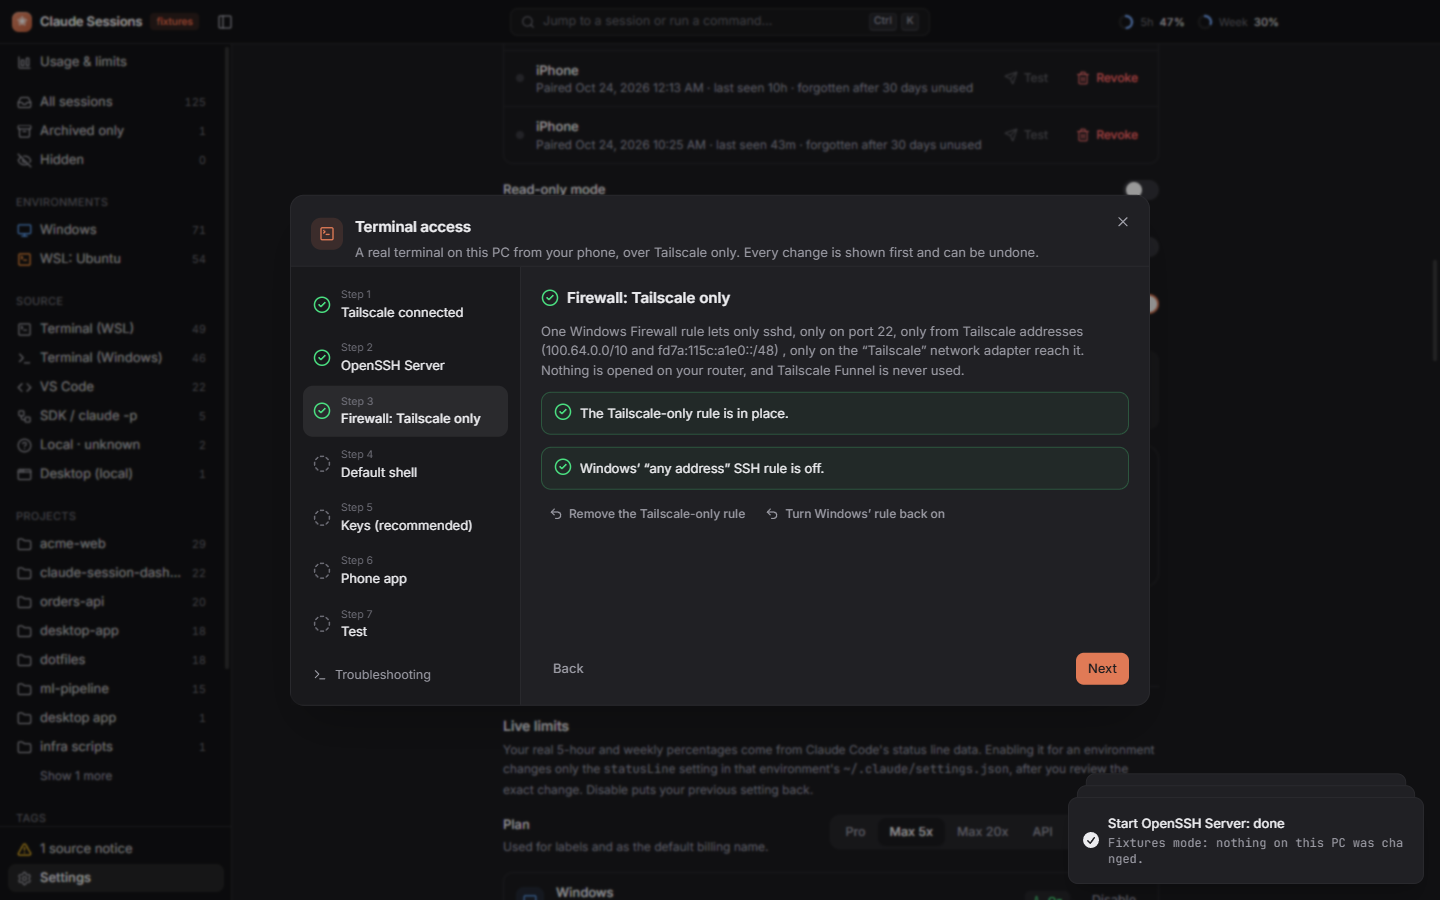
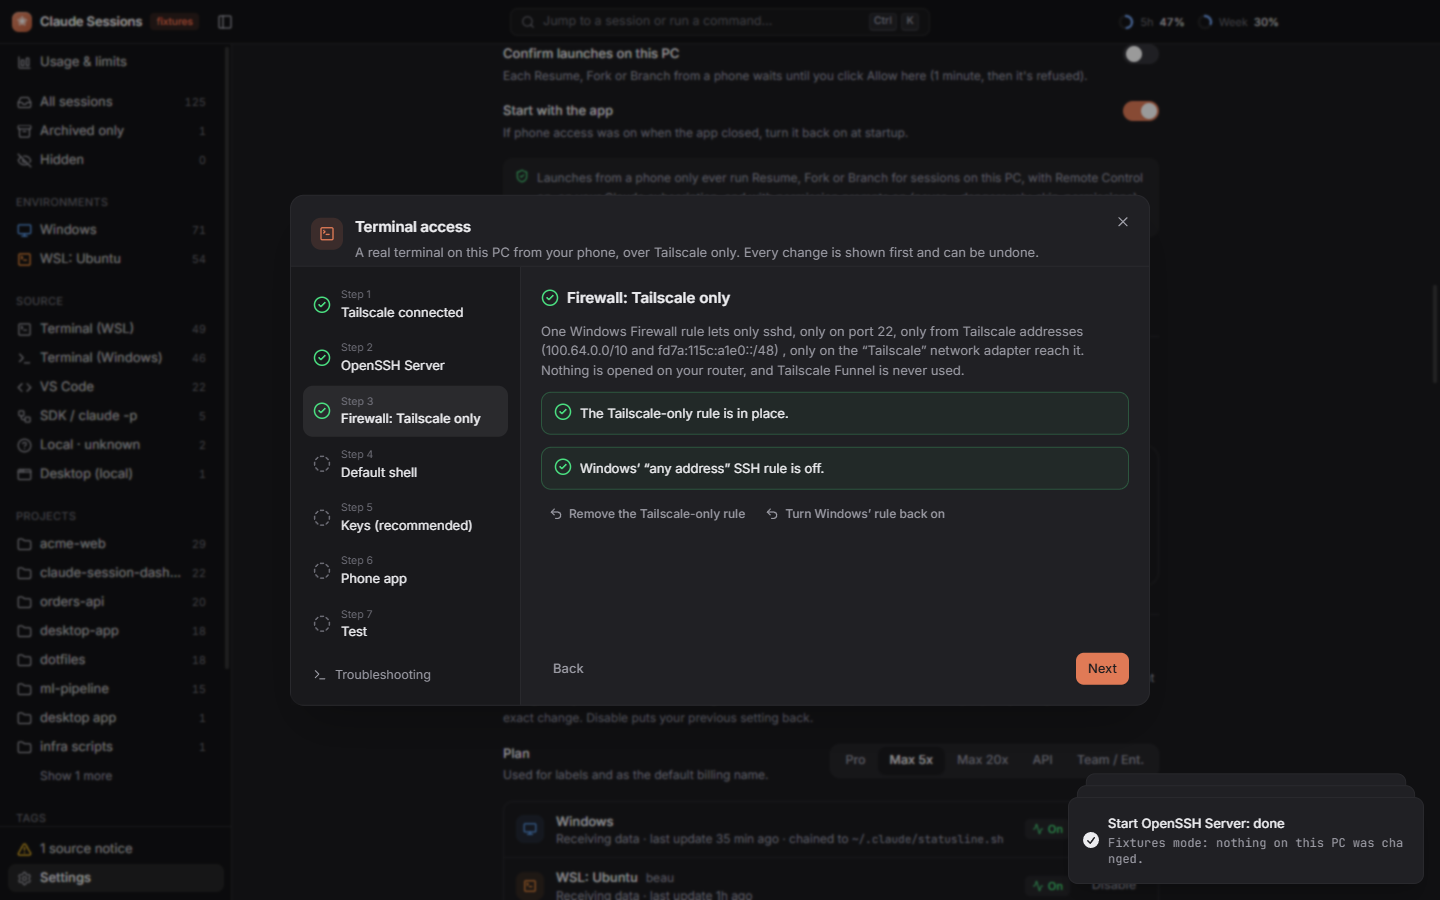
Give Terminal access (SSH) its own Settings section after Phone
It sat halfway down the Phone section with no heading, easy to miss.
References updated to Settings → Terminal access (SSH); screenshots
regenerated.

diff --git a/src/renderer/src/components/SettingsView.tsx b/src/renderer/src/components/SettingsView.tsx
@@ -33,6 +33,7 @@ import { LiveLimitsSettings } from './settings/LiveLimitsSettings'
 import { UsageSettings } from './settings/UsageSettings'
 import { HealthSettings } from './settings/HealthSettings'
 import { MobileSettingsSection } from './settings/MobileSettings'
+import { TerminalAccessBlock } from './settings/TerminalAccessSettings'
 
 export function Section({
   title,
@@ -253,6 +254,13 @@ export function SettingsView() {
         </Section>
 
         <MobileSettingsSection />
+
+        <Section
+          title="Terminal access (SSH)"
+          description="A real terminal on this PC from your phone, through Windows’ own OpenSSH Server, over Tailscale only. Every change is shown first and can be undone."
+        >
+          <TerminalAccessBlock />
+        </Section>
 
         <LiveLimitsSettings update={update} />
 

diff --git a/src/main/terminal/service.ts b/src/main/terminal/service.ts
@@ -1,4 +1,4 @@
-// Terminal access (Settings → Phone → Terminal access): set up Windows'
+// Terminal access (Settings → Terminal access (SSH)): set up Windows'
 // OpenSSH Server so a phone can open a real terminal on this PC over
 // Tailscale, and undo it again.
 //
@@ -799,7 +799,7 @@ export class TerminalService extends EventEmitter<{ changed: [] }> {
       return {
         ok: false,
         error:
-          'Your PC isn’t waiting for a key. On the PC, open Settings → Phone → Terminal access → Keys and click “Get key from phone”.'
+          'Your PC isn’t waiting for a key. On the PC, open Settings → Terminal access (SSH) → Keys and click “Get key from phone”.'
       }
     const k = parsePublicKey(text)
     if (!k.ok) return { ok: false, error: k.error }

diff --git a/src/renderer/src/components/settings/MobileSettings.tsx b/src/renderer/src/components/settings/MobileSettings.tsx
@@ -32,7 +32,6 @@ import { Input } from '../ui/input'
 import { Segmented } from '../ui/segmented'
 import { Row, Section } from '../SettingsView'
 import { MobileWizard } from './MobileWizard'
-import { TerminalAccessBlock } from './TerminalAccessSettings'
 
 function ActivityLog() {
   const [items, setItems] = useState<ActivityEntry[] | null>(null)
@@ -374,8 +373,6 @@ export function MobileSettingsSection() {
         Remote Control on, on your Claude subscription, and with permission prompts on (never
         --dangerously-skip-permissions). At most one every 10 seconds.
       </div>
-
-      <TerminalAccessBlock />
 
       <details className="group">
         <summary className="flex cursor-pointer list-none items-center gap-1.5 text-[13px] font-medium">

diff --git a/src/renderer/src/mobile/SettingsTab.tsx b/src/renderer/src/mobile/SettingsTab.tsx
@@ -309,7 +309,7 @@ function SendKeyCard({ readOnly }: { readOnly: boolean }) {
   return (
     <Card
       title="Send SSH key to PC"
-      note="For terminal access. On the PC, open Settings → Phone → Terminal access → Keys and click “Get key from phone” first. Only the public key: it’s safe to share."
+      note="For terminal access. On the PC, open Settings → Terminal access (SSH) → Keys and click “Get key from phone” first. Only the public key: it’s safe to share."
     >
       <div className="space-y-2.5 px-4 py-3">
         {sent !== null ? (

diff --git a/src/renderer/src/components/settings/terminal-change.tsx b/src/renderer/src/components/settings/terminal-change.tsx
@@ -113,7 +113,7 @@ export function useChange(onDone?: () => void): {
             <div className="flex items-start gap-2 text-xs text-muted-foreground">
               <ShieldCheck className="mt-px size-3.5 shrink-0 text-success" />
               Windows will ask for administrator rights next. Every change is logged and can be
-              undone in Settings → Phone → Terminal access.
+              undone in Settings → Terminal access (SSH).
             </div>
           )}
         </div>

diff --git a/src/main/terminal/scripts.ts b/src/main/terminal/scripts.ts
@@ -224,7 +224,7 @@ export function firewallAddScript(opts: {
     {
       Name: SSH_RULE_NAME,
       DisplayName: SSH_RULE_DISPLAY,
-      Description: 'Added by Claude Session Dashboard (Settings → Phone → Terminal access).',
+      Description: 'Added by Claude Session Dashboard (Settings → Terminal access (SSH)).',
       Port: String(port),
       Remote: TAILSCALE_RANGES,
       Program: opts.program,

diff --git a/src/main/ipc-terminal.ts b/src/main/ipc-terminal.ts
@@ -1,4 +1,4 @@
-// Settings → Phone → Terminal access, and "Open terminal here": IPC for the
+// Settings → Terminal access (SSH), and "Open terminal here": IPC for the
 // desktop window. Only `terminal:phoneInfo` is on the phone's allow-list
 // (mobile/rpc.ts); a phone can never make or undo a change from here.
 

diff --git a/src/renderer/src/components/settings/TerminalAccessSettings.tsx b/src/renderer/src/components/settings/TerminalAccessSettings.tsx
@@ -1,4 +1,4 @@
-// Settings → Phone → Terminal access: status, the setup wizard, "Turn off
+// Settings → Terminal access (SSH): status, the setup wizard, "Turn off
 // terminal access", and the log of every change the wizard made.
 
 import { useEffect, useState } from 'react'

diff --git a/CLAUDE.md b/CLAUDE.md
@@ -24,7 +24,7 @@ This repo is built in a Claude Code cloud session (Linux). The app runs on **Win
 - **What a phone can do:** read sessions and usage, edit names/descriptions/tags/pins/hidden, change a safe subset of settings (never security, pairing, API keys, Tailscale or the server itself), and ask the PC to Resume / Fork / Branch a *known* session. Launches use only the fixed resume/fork/branch commands, always with Remote Control on the Claude subscription, never `--dangerously-skip-permissions`, rate-limited, optionally confirmed on the PC, blocked in read-only mode, and logged in an activity log.
 - The companion server makes no outgoing calls. Its data lives in `%APPDATA%\ClaudeSessionDashboard\` (`mobile.json`).
 
-**Terminal access over SSH (exception #4: system changes, opt-in):** Settings → Phone → Terminal access sets up **Windows' own OpenSSH Server** so I can open a real terminal on this PC from my phone, over Tailscale only.
+**Terminal access over SSH (exception #4: system changes, opt-in):** Settings → Terminal access (SSH) sets up **Windows' own OpenSSH Server** so I can open a real terminal on this PC from my phone, over Tailscale only.
 - **Every change is shown first** (the exact PowerShell script), then confirmed, then Windows asks for administrator rights. Inputs reach the script only as base64 data, never as script text. Every change is logged (`terminal.json`) and has an Undo.
 - **What it may change, and nothing else:** install/uninstall the OpenSSH Server capability (uninstall only if the wizard installed it); the `sshd` service's start type and state; **one** firewall rule of its own (`CSD-SSH-Tailscale`: sshd.exe, TCP 22, only from `100.64.0.0/10` and `fd7a:115c:a1e0::/48`, on the Tailscale adapter); turning Windows' default "any address" rule (`OpenSSH-Server-In-TCP`) off and back on, only with my OK; the `HKLM\SOFTWARE\OpenSSH\DefaultShell` value (previous value recorded, Undo restores it or removes it); **adding** one line per key to `administrators_authorized_keys` (admins) or `~/.ssh/authorized_keys`; and the global `PasswordAuthentication` line of `sshd_config` (the original is backed up byte for byte in `%APPDATA%\ClaudeSessionDashboard\terminal-backups\` first, and only restored if the file is still what the wizard wrote).
 - **Never:** delete or change a key I added myself (Undo removes only the exact line the wizard added), expose SSH outside Tailscale, use Funnel, or touch the router. **"Turn off terminal access"** undoes exactly what the wizard changed.

diff --git a/docs/AI-SETUP-GUIDE.md b/docs/AI-SETUP-GUIDE.md
@@ -7,11 +7,11 @@ own diagnostics.
 
 There are three connections. Find out which one the person is stuck on:
 
-| Connection                | What it does                                                                  | Set up in the app                                                |
-| ------------------------- | ----------------------------------------------------------------------------- | ---------------------------------------------------------------- |
-| **Phone companion**       | The dashboard in the phone's browser (read sessions, usage, resume on the PC) | Settings → Phone → **Connect your phone…**                       |
-| **Remote Control**        | Continue a resumed session in the Claude app / claude.ai/code                 | Same wizard, last step                                           |
-| **Terminal access (SSH)** | A real terminal on the PC from an SSH app (Termius, ConnectBot, …)            | Settings → Phone → Terminal access → **Set up terminal access…** |
+| Connection                | What it does                                                                  | Set up in the app                                              |
+| ------------------------- | ----------------------------------------------------------------------------- | -------------------------------------------------------------- |
+| **Phone companion**       | The dashboard in the phone's browser (read sessions, usage, resume on the PC) | Settings → Phone → **Connect your phone…**                     |
+| **Remote Control**        | Continue a resumed session in the Claude app / claude.ai/code                 | Same wizard, last step                                         |
+| **Terminal access (SSH)** | A real terminal on the PC from an SSH app (Termius, ConnectBot, …)            | Settings → Terminal access (SSH) → **Set up terminal access…** |
 
 All three run over the person's own **Tailscale** network (home Wi-Fi is an alternative for the
 companion only).

diff --git a/README.md b/README.md
@@ -191,7 +191,7 @@ firewall rule and pair. Your phone must be on the same Wi-Fi.
 
 ### Set up terminal access
 
-Settings → **Phone** → **Terminal access** → **Set up terminal access…**. Each step checks itself,
+Settings → **Terminal access (SSH)** → **Set up terminal access…**. Each step checks itself,
 and each change shows the exact script first; Windows then asks for administrator rights.
 
 1. **Tailscale connected** on the PC (and on your phone).
